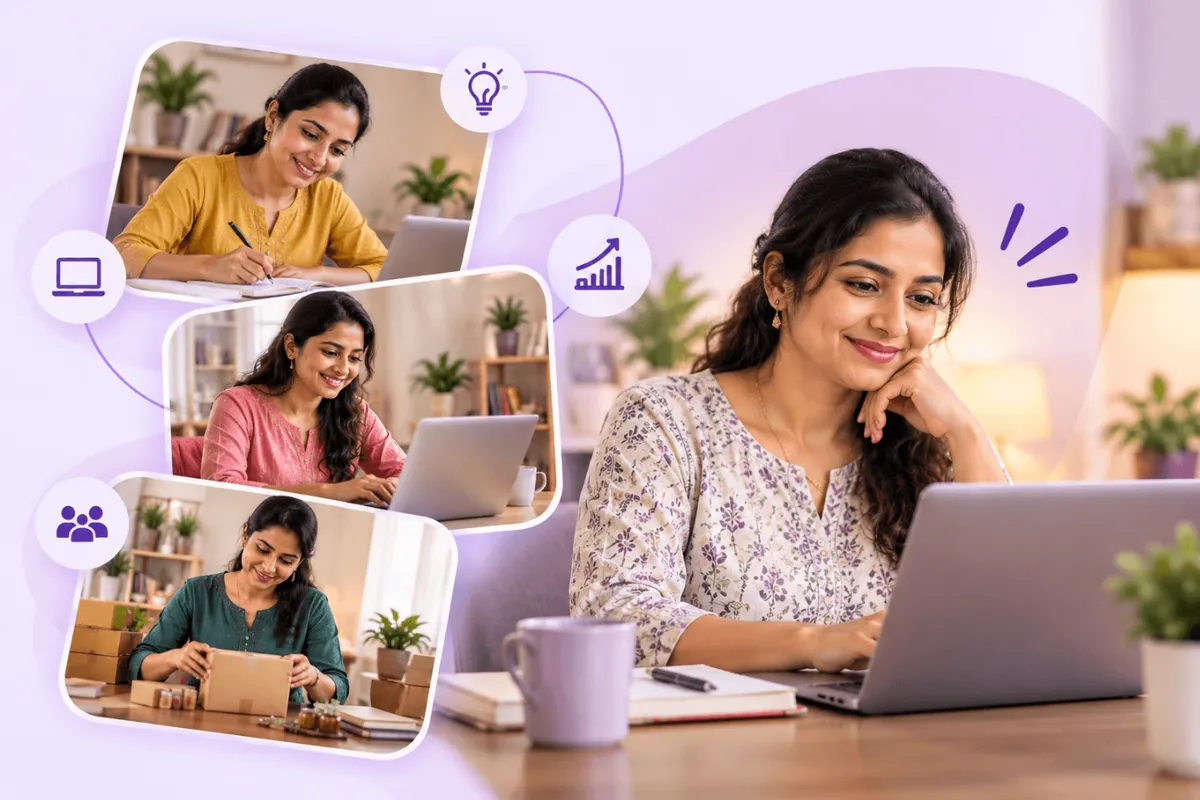
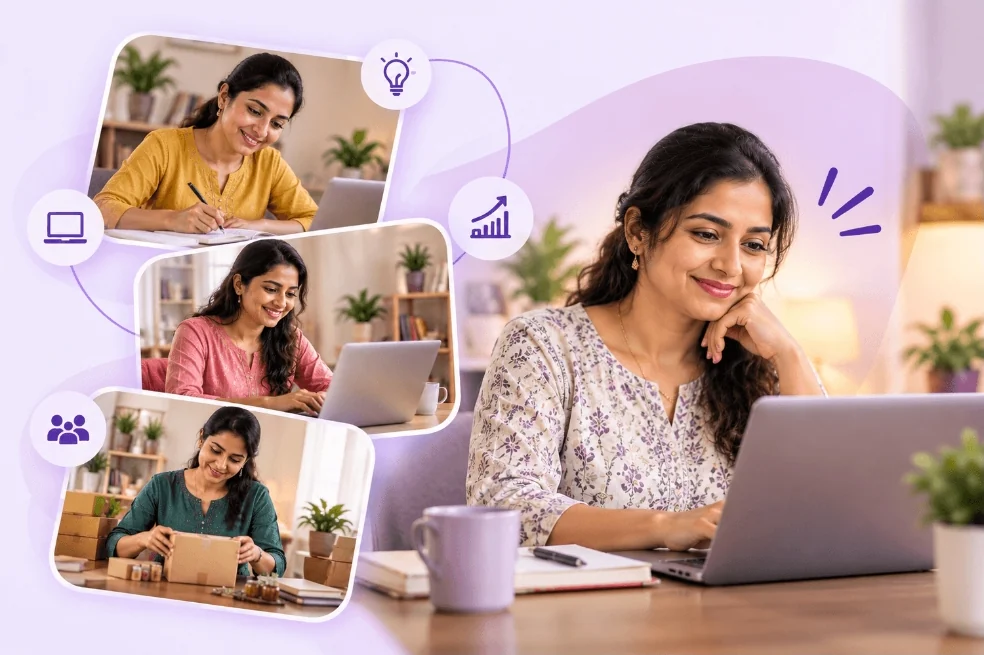
About collage shown in full (uncropped source, exact frame ratio) on Home and About
Claude-Session: https://claude.ai/code/session_018tkHfpRg9YGgTJfw74iWSp

diff --git a/src/pages/Public.tsx b/src/pages/Public.tsx
@@ -18,7 +18,7 @@ export function About() {
     <Seo title="About Crafted Skills (CraftedSkills) | Digital Skills in Kannada, Karnataka" desc={ABOUT.intro[0]} />
     <PageHero eyebrow="About us" title={<>Crafted Skills <span className="kn grad" lang="kn" style={{ display: 'block', fontSize: '.62em', marginTop: 8 }}>– {SITE.kannadaLine}</span></>} />
     <section className="sec tight"><div className="wrap split">
-      <div className="photo rv" style={{ aspectRatio: '3/2' }}><img src="img/hero-collage.webp" alt="Women learning digital skills from home" width="1200" height="800" /></div>
+      <div className="photo rv" style={{ aspectRatio: '984/655' }}><img src="img/hero-collage.webp" alt="Women learning digital skills from home" width="984" height="655" /></div>
       <div className="rv">{ABOUT.intro.map((p) => <p key={p} className="lead" style={{ marginBottom: 14 }}>{p}</p>)}</div>
     </div></section>
     <section className="sec tight"><div className="wrap"><div className="card glowy rv" style={{ padding: 'clamp(24px,4vw,48px)' }}>

diff --git a/src/pages/Home.tsx b/src/pages/Home.tsx
@@ -160,7 +160,7 @@ export default function Home() {
 
     <section className="sec tint">
       <div className="wrap split">
-        <div className="photo wipe" style={{ aspectRatio: '3/2' }}><img src="img/hero-collage.webp" alt="Women learning digital skills from home" fetchPriority="low" decoding="async" width="1200" height="800" /></div>
+        <div className="photo wipe" style={{ aspectRatio: '984/655' }}><img src="img/hero-collage.webp" alt="Women learning digital skills from home" fetchPriority="low" decoding="async" width="984" height="655" /></div>
         <div className="rv">
           <span className="eyebrow">About us</span>
           <SplitH text={HOME.aboutTitle.replace(' :', '')} style={{ margin: '12px 0 16px' }} />
